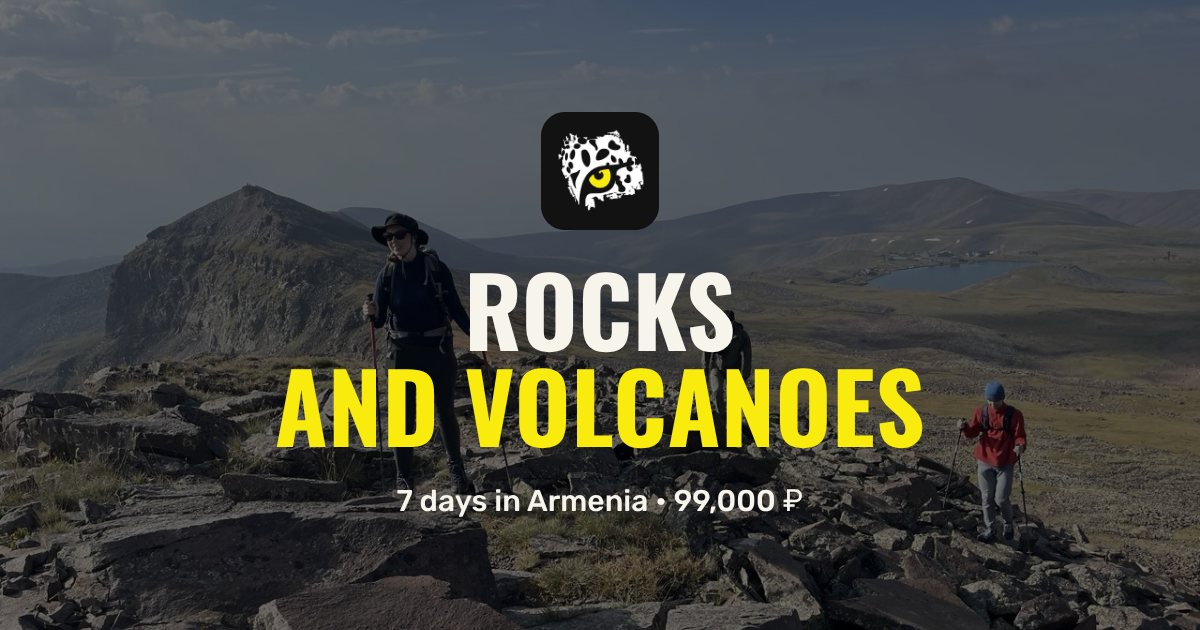
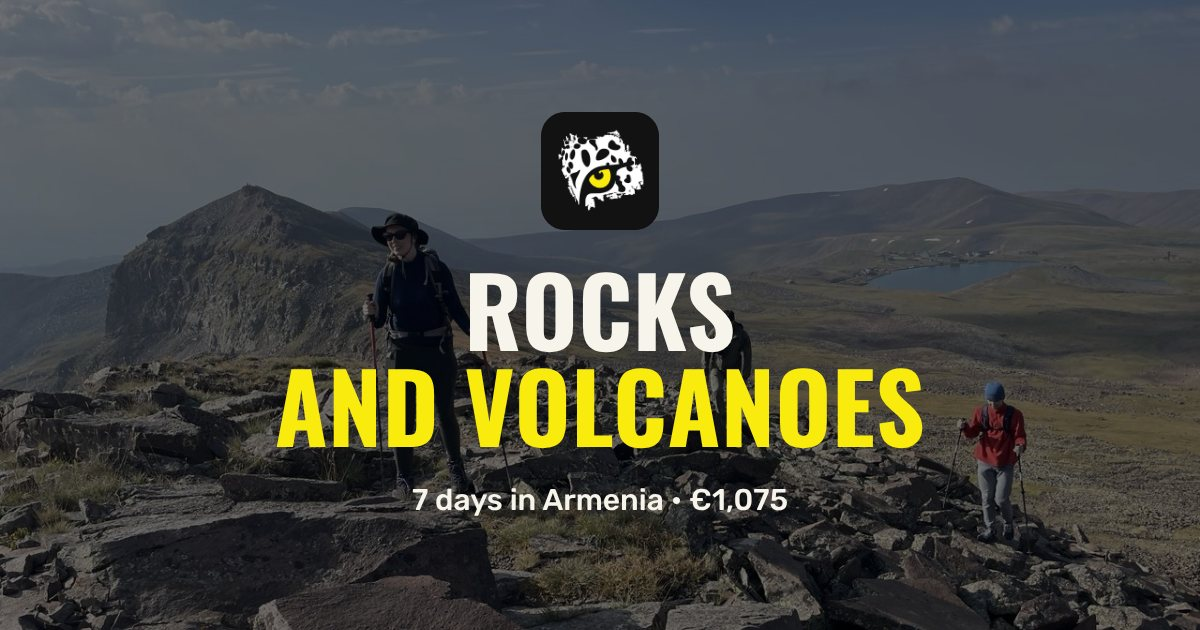
Prices in client currency: RU in RUB, EN in EUR, ARM in AMD; small conversions at Bank of Russia rate 14.11.2026
Claude-Session: https://claude.ai/code/session_01UELaXKaEtKLHJMR8bpMREh

Changed region(s): [[0.3392, 0.754, 0.6783, 0.8143]]

diff --git a/index.html b/index.html
@@ -47,8 +47,8 @@ html[lang="hy"] body{font-family:Rubik,"Noto Sans Armenian",Arial,sans-serif}
 <div class="g">
 <a class="c" href="ski/"><img lang="ru" src="img/cards/ski-ru.jpg" alt="Горные лыжи с нуля"><img lang="en" src="img/cards/ski-en.jpg" alt="Skiing from scratch"><img lang="hy" src="img/cards/ski-hy.jpg" alt="Լեռնադահուկ զրոյից"><div><span lang="ru">Горные лыжи с нуля · 7 дней · зима</span><span lang="en">Skiing from scratch · 7 days · winter</span><span lang="hy">Լեռնադահուկ զրոյից · 7 օր · ձմեռ</span></div></a>
 <a class="c" href="skaly-i-vulkan/"><img lang="ru" src="img/cards/rocks-ru.jpg" alt="Скалы и вулканы"><img lang="en" src="img/cards/rocks-en.jpg" alt="Rocks and volcanoes"><img lang="hy" src="img/cards/rocks-hy.jpg" alt="Ժայռեր և հրաբուխներ"><div><span lang="ru">Скалы и вулканы · 7 дней · апрель — ноябрь</span><span lang="en">Rocks and volcanoes · 7 days · April — November</span><span lang="hy">Ժայռեր և հրաբուխներ · 7 օր · ապրիլ — նոյեմբեր</span></div></a>
-<a class="c" href="trekking/"><img lang="ru" src="img/cards/trek-ru.jpg" alt="Армения пешком"><img lang="en" src="img/cards/trek-en.jpg" alt="Armenia on foot"><img lang="hy" src="img/cards/trek-hy.jpg" alt="Հայաստան ոտքով"><div><span lang="ru">Армения пешком · 7 дней · 95 000 ₽ · май — октябрь</span><span lang="en">Armenia on foot · 7 days · 95 000 ₽ · May — October</span><span lang="hy">Հայաստան ոտքով · 7 օր · 95 000 ₽ · մայիս — հոկտեմբեր</span></div></a>
-<a class="c" href="extreme-wine/"><img lang="ru" src="img/cards/wine-ru.jpg" alt="Экстрим вайн тур"><img lang="en" src="img/cards/wine-en.jpg" alt="Extreme wine tour"><img lang="hy" src="img/cards/wine-hy.jpg" alt="Էքստրիմ գինու տուր"><div><span lang="ru">Экстрим вайн тур · 5 дней · 89 000 ₽</span><span lang="en">Extreme wine tour · 5 days · 89 000 ₽</span><span lang="hy">Էքստրիմ գինու տուր · 5 օր · 89 000 ₽</span></div></a>
+<a class="c" href="trekking/"><img lang="ru" src="img/cards/trek-ru.jpg" alt="Армения пешком"><img lang="en" src="img/cards/trek-en.jpg" alt="Armenia on foot"><img lang="hy" src="img/cards/trek-hy.jpg" alt="Հայաստան ոտքով"><div><span lang="ru">Армения пешком · 7 дней · 95 000 ₽ · май — октябрь</span><span lang="en">Armenia on foot · 7 days · €1,030 · May — October</span><span lang="hy">Հայաստան ոտքով · 7 օր · 417 000 ֏ · մայիս — հոկտեմբեր</span></div></a>
+<a class="c" href="extreme-wine/"><img lang="ru" src="img/cards/wine-ru.jpg" alt="Экстрим вайн тур"><img lang="en" src="img/cards/wine-en.jpg" alt="Extreme wine tour"><img lang="hy" src="img/cards/wine-hy.jpg" alt="Էքստրիմ գինու տուր"><div><span lang="ru">Экстрим вайн тур · 5 дней · 89 000 ₽</span><span lang="en">Extreme wine tour · 5 days · €965</span><span lang="hy">Էքստրիմ գինու տուր · 5 օր · 391 000 ֏</span></div></a>
 <a class="c" href="weekend/"><img lang="ru" src="img/cards/weekend-ru.jpg" alt="Скалы за выходные"><img lang="en" src="img/cards/weekend-en.jpg" alt="Rocks in a weekend"><img lang="hy" src="img/cards/weekend-hy.jpg" alt="Ժայռեր հանգստյան օրերին"><div><span lang="ru">Скалы за выходные · 2 дня из Еревана</span><span lang="en">Rocks in a weekend · 2 days from Yerevan</span><span lang="hy">Ժայռեր հանգստյան օրերին · 2 օր Երևանից</span></div></a>
 <a class="c" href="gaidbuk/"><img lang="ru" src="img/cards/guide-ru.jpg" alt="Гайдбук «Скалы Армении»"><img lang="en" src="img/cards/guide-en.jpg" alt="Rocks of Armenia guidebook"><img lang="hy" src="img/cards/guide-hy.jpg" alt="«Հայաստանի ժայռերը» ուղեցույց"><div><span lang="ru">Гайдбук «Скалы Армении» · 304 маршрута</span><span lang="en">Rocks of Armenia guidebook · 304 routes</span><span lang="hy">«Հայաստանի ժայռերը» ուղեցույց · 304 երթուղի</span></div></a>
 </div>

diff --git a/dolmatur/index.html b/dolmatur/index.html
@@ -182,7 +182,7 @@ html[lang] .sl span,html[lang] .sl b{font-family:Oswald,"Arial Narrow",Arial,san
     <span class="alt"><span lang="ru">Из Еревана · 1 день · 15 ноября</span><span lang="en">From Yerevan · 1 day · 15 November</span><span lang="hy">Երևանից · 1 օր · նոյեմբերի 15</span></span>
     <h1><span lang="ru">Долма-<em>тур</em></span><span lang="en">Dolma <em>tour</em></span><span lang="hy">Տոլմա-<em>տուր</em></span></h1>
     <p class="sub"><span lang="ru">Хачикян звал в Дилижан на долму — мы едем. «Мимино», лес от озера Парз к Гошаванку и домашняя долма с вином на финише.</span><span lang="en">Mimino's Khachikyan kept inviting everyone to Dilijan for dolma — so we're going. The Mimino statue, a forest trail from Lake Parz to Goshavank and homemade dolma with wine at the finish.</span><span lang="hy">Խաչիկյանը կանչում էր Դիլիջան՝ տոլմա ուտելու, և մենք գնում ենք։ «Միմինո», անտառային արահետ Պարզ լճից Գոշավանք և տնական տոլմա գինով՝ վերջում։</span></p>
-    <div class="row"><a class="cta" href="#price"><span lang="ru">Хочу на долму</span><span lang="en">Book a spot</span><span lang="hy">Գրանցվել</span></a><span class="price-chip">25 000 ֏<small lang="ru">с человека</small><small lang="en">per person</small><small lang="hy">մեկ անձի համար</small></span></div>
+    <div class="row"><a class="cta" href="#price"><span lang="ru">Хочу на долму</span><span lang="en">Book a spot</span><span lang="hy">Գրանցվել</span></a><span class="price-chip"><span lang="ru">5 700 ₽</span><span lang="en">€60</span><span lang="hy">25 000 ֏</span><small lang="ru">с человека</small><small lang="en">per person</small><small lang="hy">մեկ անձի համար</small></span></div>
   </div>
 </section>
 
@@ -288,7 +288,7 @@ html[lang] .sl span,html[lang] .sl b{font-family:Oswald,"Arial Narrow",Arial,san
 <section class="price" id="price"><div class="wrap">
   <div>
     <span class="eyebrow" style="color:var(--eye-ink)"><span lang="ru">Цена</span><span lang="en">Price</span><span lang="hy">Գին</span></span>
-    <div class="big">25 000 ֏<small><span lang="ru">с человека, всё включено</span><span lang="en">per person, all inclusive</span><span lang="hy">մեկ անձի համար, ամեն ինչ ներառված</span></small></div>
+    <div class="big"><span lang="ru">5 700 ₽</span><span lang="en">€60</span><span lang="hy">25 000 ֏</span><small><span lang="ru">с человека, всё включено</span><span lang="en">per person, all inclusive</span><span lang="hy">մեկ անձի համար, ամեն ինչ ներառված</span><span class="fx" style="display:block;font-family:var(--body);font-size:16px;font-weight:500;letter-spacing:0;text-transform:none;opacity:.8;margin-top:8px"><span lang="ru">25 000 ֏ · ≈ €60</span><span lang="en">≈ 5,700 ₽ · 25,000 AMD</span><span lang="hy">≈ 5 700 ₽ · ≈ €60</span></span></small></div>
     <ul>
       <li><b><span lang="ru">Воскресенье, 15 ноября 2026</span><span lang="en">Sunday, 15 November 2026</span><span lang="hy">Կիրակի, 2026 թ. նոյեմբերի 15</span></b></li>
       <li><span lang="ru">Выезд в 9:00 от Megamall Armenia, проспект Гая, 16 (Нор-Норк)</span><span lang="en">Departure 9:00 from Megamall Armenia, 16 Gai Ave (Nor Nork)</span><span lang="hy">Մեկնում ժ. 9:00-ին Megamall Armenia-ից, Գայի պողոտա 16 (Նոր Նորք)</span></li>

diff --git a/weekend/index.html b/weekend/index.html
@@ -163,7 +163,7 @@ html[lang] .sl span,html[lang] .sl b{font-family:Oswald,"Arial Narrow",Arial,san
     <span class="alt"><span lang="ru">Из Еревана · 2 дня · апрель — ноябрь</span><span lang="en">From Yerevan · 2 days · April — November</span><span lang="hy">Երևանից · 2 օր · ապրիլ — նոյեմբեր</span></span>
     <h1><span lang="ru">Скалы<br><em>за</em> выходные</span><span lang="en">Rocks<br><em>in a</em> weekend</span><span lang="hy">Ժայռեր<br><em>հանգստյան</em> օրերին</span></h1>
     <p class="sub"><span lang="ru">Два дня на красных скалах Нораванка, ночь в кемпинге и пещера Арени-1. Опыт не нужен — научим с нуля.</span><span lang="en">Two days on the red cliffs of Noravank, a night at a campsite and the Areni-1 cave. No experience needed — we teach you from scratch.</span><span lang="hy">Երկու օր Նորավանքի կարմիր ժայռերին, գիշեր քեմփինգում և Արենի-1 քարանձավ։ Փորձ պետք չէ՝ կսովորեցնենք զրոյից։</span></p>
-    <div class="row"><a class="cta" href="#price"><span lang="ru">Хочу на скалы</span><span lang="en">Book a spot</span><span lang="hy">Գրանցվել</span></a><span class="price-chip">79 000 ֏<small lang="ru">с человека</small><small lang="en">per person</small><small lang="hy">մեկ անձի համար</small></span></div>
+    <div class="row"><a class="cta" href="#price"><span lang="ru">Хочу на скалы</span><span lang="en">Book a spot</span><span lang="hy">Գրանցվել</span></a><span class="price-chip"><span lang="ru">18 000 ₽</span><span lang="en">€195</span><span lang="hy">79 000 ֏</span><small lang="ru">с человека</small><small lang="en">per person</small><small lang="hy">մեկ անձի համար</small></span></div>
   </div>
 </section>
 
@@ -261,7 +261,7 @@ html[lang] .sl span,html[lang] .sl b{font-family:Oswald,"Arial Narrow",Arial,san
 <section class="price" id="price"><div class="wrap">
   <div>
     <span class="eyebrow" style="color:var(--eye-ink)"><span lang="ru">Цена</span><span lang="en">Price</span><span lang="hy">Գին</span></span>
-    <div class="big">79 000 ֏<small><span lang="ru">с человека, всё включено</span><span lang="en">per person, all inclusive</span><span lang="hy">մեկ անձի համար, ամեն ինչ ներառված</span></small></div>
+    <div class="big"><span lang="ru">18 000 ₽</span><span lang="en">€195</span><span lang="hy">79 000 ֏</span><small><span lang="ru">с человека, всё включено</span><span lang="en">per person, all inclusive</span><span lang="hy">մեկ անձի համար, ամեն ինչ ներառված</span><span class="fx" style="display:block;font-family:var(--body);font-size:16px;font-weight:500;letter-spacing:0;text-transform:none;opacity:.8;margin-top:8px"><span lang="ru">79 000 ֏ · ≈ €195</span><span lang="en">≈ 18,000 ₽ · 79,000 AMD</span><span lang="hy">≈ 18 000 ₽ · ≈ €195</span></span></small></div>
     <ul>
       <li><span lang="ru">Выходные с апреля по ноябрь</span><span lang="en">Weekends April to November</span><span lang="hy">Հանգստյան օրեր՝ ապրիլից նոյեմբեր</span></li>
       <li><span lang="ru">Группа 4–8 человек, 2 инструктора</span><span lang="en">Group of 4–8, two instructors</span><span lang="hy">Խումբ՝ 4–8 հոգի, երկու հրահանգիչ</span></li>

diff --git a/skaly-i-vulkan/index.html b/skaly-i-vulkan/index.html
@@ -303,7 +303,7 @@ html[lang] .sl span,html[lang] .sl b{font-family:Oswald,"Arial Narrow",Arial,san
     <p class="sub"><span lang="ru">Скалолазание в Нораванке и Адском ущелье, два треккинга и восхождение на Арагац. Опыт не нужен — научим с нуля.</span><span lang="en">Rock climbing at Noravank and Hell's Canyon, two treks and an ascent of Mount Aragats. No experience needed — we teach you from scratch.</span><span lang="hy">Ժայռամագլցում Նորավանքում և Դժոխքի կիրճում, երկու արշավ և վերելք Արագած։ Փորձ պետք չէ՝ կսովորեցնենք զրոյից։</span></p>
     <div class="hero-row">
       <a class="cta" href="#price"><span lang="ru">Хочу в горы</span><span lang="en">Take me to the mountains</span><span lang="hy">Ուզում եմ լեռներ</span></a>
-      <span class="price-chip">99 000 ₽<small><span lang="ru">за человека, без перелёта</span><span lang="en">per person, flights not included</span><span lang="hy">մեկ անձի համար, առանց թռիչքի</span></small></span>
+      <span class="price-chip"><span lang="ru">99 000 ₽</span><span lang="en">€1,075</span><span lang="hy">435 000 ֏</span><small><span lang="ru">за человека, без перелёта</span><span lang="en">per person, flights not included</span><span lang="hy">մեկ անձի համար, առանց թռիչքի</span></small></span>
     </div>
   </div>
 </section>
@@ -526,7 +526,7 @@ html[lang] .sl span,html[lang] .sl b{font-family:Oswald,"Arial Narrow",Arial,san
   <div class="wrap">
     <div>
       <span class="eyebrow" style="color:var(--eye-ink)"><span lang="ru">Цена</span><span lang="en">Price</span><span lang="hy">Գին</span></span>
-      <div class="big">99 000 ₽<small><span lang="ru">за человека · ≈ $1 190 по курсу ЦБ РФ, октябрь 2026</span><span lang="en">per person · ≈ $1,190 at the Bank of Russia rate, October 2026</span><span lang="hy">մեկ անձի համար · ≈ $1 190՝ ՌԴ ԿԲ փոխարժեքով, հոկտեմբեր 2026</span></small></div>
+      <div class="big"><span lang="ru">99 000 ₽</span><span lang="en">€1,075</span><span lang="hy">435 000 ֏</span><small><span lang="ru">за человека</span><span lang="en">per person</span><span lang="hy">մեկ անձի համար</span><span class="fx" style="display:block;font-family:var(--body);font-size:16px;font-weight:500;letter-spacing:0;text-transform:none;opacity:.8;margin-top:8px"><span lang="ru">≈ 435 000 ֏ · ≈ €1 075</span><span lang="en">99,000 ₽ · ≈ 435,000 AMD</span><span lang="hy">99 000 ₽ · ≈ €1 075</span></span></small></div>
       <ul>
         <li><span lang="ru">Июль — сентябрь: с восхождением на Арагац</span><span lang="en">July — September: with the Aragats ascent</span><span lang="hy">Հուլիս — սեպտեմբեր՝ Արագածի վերելքով</span></li>
         <li><span lang="ru">Апрель — июнь, октябрь — ноябрь: Аждаак, Димац, Атис или Аралер</span><span lang="en">April — June, October — November: Azhdahak, Dimats, Atis or Araler</span><span lang="hy">Ապրիլ — հունիս, հոկտեմբեր — նոյեմբեր՝ Աժդահակ, Դիմաց, Աթիս կամ Արալեր</span></li>

diff --git a/trekking/index.html b/trekking/index.html
@@ -389,7 +389,7 @@ html[lang] .sl span,html[lang] .sl b{font-family:Oswald,"Arial Narrow",Arial,san
     <p class="sub"><span lang="ru">Шесть троп за неделю: от базальтовых столбов Гарни и лесов Дилижана до вершины Арагаца. Уровень, доступный всем.</span><span lang="en">Six trails in a week: from the basalt columns of Garni and the forests of Dilijan to the summit of Aragats. A level anyone can manage.</span><span lang="hy">Վեց արահետ մեկ շաբաթում՝ Գառնիի բազալտե սյուներից և Դիլիջանի անտառներից մինչև Արագածի գագաթ։ Մակարդակ՝ հասանելի բոլորին։</span></p>
     <div class="hero-row">
       <a class="cta" href="#price"><span lang="ru">Хочу в горы</span><span lang="en">Take me to the mountains</span><span lang="hy">Ուզում եմ լեռներ</span></a>
-      <span class="price-chip">95 000 ₽<small><span lang="ru">с человека · 7 дней</span><span lang="en">per person · 7 days</span><span lang="hy">մեկ անձի համար · 7 օր</span></small></span>
+      <span class="price-chip"><span lang="ru">95 000 ₽</span><span lang="en">€1,030</span><span lang="hy">417 000 ֏</span><small><span lang="ru">с человека · 7 дней</span><span lang="en">per person · 7 days</span><span lang="hy">մեկ անձի համար · 7 օր</span></small></span>
     </div>
     <a class="pg-url" href="https://scmam-rgb.github.io/white-irbis/trekking/">scmam-rgb.github.io/white-irbis/trekking</a>
   </div>
@@ -630,7 +630,7 @@ html[lang] .sl span,html[lang] .sl b{font-family:Oswald,"Arial Narrow",Arial,san
   <div class="wrap">
     <div>
       <span class="eyebrow" style="color:var(--eye-ink)"><span lang="ru">Цена</span><span lang="en">Price</span><span lang="hy">Գին</span></span>
-      <div class="ask">95 000 ₽<small><span lang="ru">с человека · ≈ 417 000 ֏ · ≈ $1 155</span><span lang="en">per person · ≈ 417,000 AMD · ≈ $1,155</span><span lang="hy">մեկ անձի համար · ≈ 417 000 ֏ · ≈ $1 155</span></small></div>
+      <div class="ask"><span lang="ru">95 000 ₽</span><span lang="en">€1,030</span><span lang="hy">417 000 ֏</span><small><span lang="ru">с человека · ≈ 417 000 ֏ · ≈ €1 030</span><span lang="en">per person · 95,000 ₽ · ≈ 417,000 AMD</span><span lang="hy">մեկ անձի համար · 95 000 ₽ · ≈ €1 030</span></small></div>
       <ul>
         <li><span lang="ru">7 дней, 6 ночей в Ереване</span><span lang="en">7 days, 6 nights in Yerevan</span><span lang="hy">7 օր, 6 գիշեր Երևանում</span></li>
         <li><span lang="ru">Группа от 2 человек</span><span lang="en">Groups from 2 people</span><span lang="hy">Խումբը՝ 2 մարդուց</span></li>

diff --git a/extreme-wine/index.html b/extreme-wine/index.html
@@ -237,7 +237,7 @@ html[lang="hy"] .dg b{font-family:"Noto Sans Armenian",var(--display);font-stret
 <section class="price" id="price"><div class="wrap">
   <div>
     <span class="eyebrow" style="color:var(--eye-ink)"><span lang="ru">Цена</span><span lang="en">Price</span><span lang="hy">Գին</span></span>
-    <div class="big">89 000 ₽<small><span lang="ru">с человека · ≈ 390 000 ֏ · ≈ $1 080</span><span lang="en">per person · ≈ 390,000 AMD · ≈ $1,080</span><span lang="hy">մեկ անձի համար · ≈ 390 000 ֏ · ≈ $1 080</span></small></div>
+    <div class="big"><span lang="ru">89 000 ₽</span><span lang="en">€965</span><span lang="hy">391 000 ֏</span><small><span lang="ru">с человека</span><span lang="en">per person</span><span lang="hy">մեկ անձի համար</span><span class="fx" style="display:block;font-family:var(--body);font-size:16px;font-weight:500;letter-spacing:0;text-transform:none;opacity:.8;margin-top:8px"><span lang="ru">≈ 391 000 ֏ · ≈ €965</span><span lang="en">89,000 ₽ · ≈ 391,000 AMD</span><span lang="hy">89 000 ₽ · ≈ €965</span></span></small></div>
     <ul>
       <li><span lang="ru">Круглый год, даты — под вашу группу</span><span lang="en">All year round, dates to suit your group</span><span lang="hy">Ամբողջ տարին, ամսաթվերը՝ ձեր խմբի համար</span></li>
       <li><span lang="ru">Группа до 6 человек</span><span lang="en">Groups of up to 6</span><span lang="hy">Խումբը՝ մինչև 6 մարդ</span></li>

diff --git a/ski/index.html b/ski/index.html
@@ -443,7 +443,7 @@ html[lang] .sl span,html[lang] .sl b{font-family:Oswald,"Arial Narrow",Arial,san
 <section class="price" id="price"><div class="wrap">
   <div>
     <span class="eyebrow" style="color:var(--eye-ink)">Цена · зима 2026/27</span>
-    <div class="big">97 000 ₽<small>7 дней / 6 ночей, с человека</small></div>
+    <div class="big">97 000 ₽<small>7 дней / 6 ночей, с человека · ≈ 426 000 ֏ · ≈ €1 055</small></div>
     <ul>
       <li>Раннее бронирование — 93 000 ₽</li>
       <li>Сезон — с середины декабря по март</li>

diff --git a/tools/build_trekking.py b/tools/build_trekking.py
@@ -269,7 +269,7 @@ page = f'''<!doctype html>
     <p class="sub">{t("Шесть троп за неделю: от базальтовых столбов Гарни и лесов Дилижана до вершины Арагаца. Уровень, доступный всем.","Six trails in a week: from the basalt columns of Garni and the forests of Dilijan to the summit of Aragats. A level anyone can manage.","Վեց արահետ մեկ շաբաթում՝ Գառնիի բազալտե սյուներից և Դիլիջանի անտառներից մինչև Արագածի գագաթ։ Մակարդակ՝ հասանելի բոլորին։")}</p>
     <div class="hero-row">
       <a class="cta" href="#price">{t("Хочу в горы","Take me to the mountains","Ուզում եմ լեռներ")}</a>
-      <span class="price-chip">95 000 ₽<small>{t("с человека · 7 дней","per person · 7 days","մեկ անձի համար · 7 օր")}</small></span>
+      <span class="price-chip"><span lang="ru">95 000 ₽</span><span lang="en">€1,030</span><span lang="hy">417 000 ֏</span><small>{t("с человека · 7 дней","per person · 7 days","մեկ անձի համար · 7 օր")}</small></span>
     </div>
     <a class="pg-url" href="https://scmam-rgb.github.io/white-irbis/trekking/">scmam-rgb.github.io/white-irbis/trekking</a>
   </div>
@@ -447,7 +447,7 @@ page = f'''<!doctype html>
   <div class="wrap">
     <div>
       <span class="eyebrow" style="color:var(--eye-ink)">{t("Цена","Price","Գին")}</span>
-      <div class="ask">95 000 ₽<small>{t("с человека · ≈ 417 000 ֏ · ≈ $1 155","per person · ≈ 417,000 AMD · ≈ $1,155","մեկ անձի համար · ≈ 417 000 ֏ · ≈ $1 155")}</small></div>
+      <div class="ask"><span lang="ru">95 000 ₽</span><span lang="en">€1,030</span><span lang="hy">417 000 ֏</span><small>{t("с человека · ≈ 417 000 ֏ · ≈ €1 030","per person · 95,000 ₽ · ≈ 417,000 AMD","մեկ անձի համար · 95 000 ₽ · ≈ €1 030")}</small></div>
       <ul>
         <li>{t("7 дней, 6 ночей в Ереване","7 days, 6 nights in Yerevan","7 օր, 6 գիշեր Երևանում")}</li>
         <li>{t("Группа от 2 человек","Groups from 2 people","Խումբը՝ 2 մարդուց")}</li>
